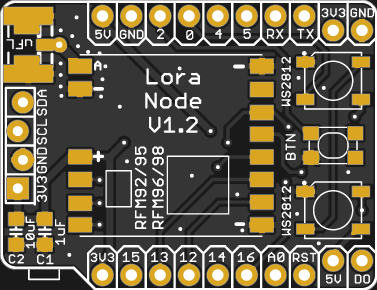
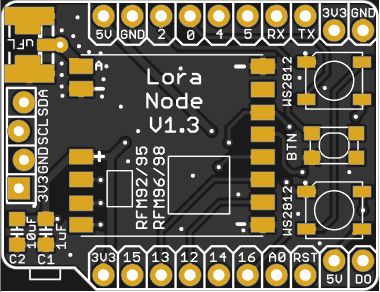
Bump to v1.3

diff --git a/README.md b/README.md
@@ -12,7 +12,7 @@ This shield is used to hold HopeRF [Lora module][4] Software with WeMos ESP8266 
 - Added Solder PAD jumper to be able to connect GPIO16 to Reset to enable deep sleep (V1.2+)
 
 
-You can find more information on WeMos on their [site][1], it's really well documented.
+You can find more information on WeMos D1 mini boards ([mini][1], [mini pro][7], [mini lite[8]), it's really well documented.
 I now use WeMos boards instead of NodeMCU's one because they're just smaller, features remains the same, but I also suspect WeMos regulator far better quality than the one used on NodeMCU that are just fake of originals AMS117 3V3.
 
 Boards arrived, I tested them, works fine with forked version of [single Channel LoRaWAN Gateway][5] but you can use any program that is compatible with RFM95 Lora module according it to real pinout.
@@ -23,6 +23,8 @@ Detailed Description
 Look at the schematics for more informations.
 
 SPI connexion is classic (MOSI/MISO/CLK), 
+
+**New v1.3** Solder pad on bottom layer to be able to switch 3V3 and GND Pin. It's configured as old version mapping by default (silkscreen is correct). 
 
 Since V1.2, chip Select is still connected with GPIO16 by default but solder pad on bottom of the board allow you to connect GPIO16 to RESET for Deep Sleep. In this case: 
 
@@ -85,9 +87,11 @@ Misc
 ====
 See news and other projects on my [blog][2] 
  
-[1]: http://www.wemos.cc/wiki/doku.php?id=en:d1_mini
+[1]: https://wiki.wemos.cc/products:d1:d1_mini
 [2]: https://hallard.me
 [3]: https://PCBs.io/share/4Q1Z4 
 [4]: http://www.hoperf.com/rf_transceiver/lora/
 [5]: https://github.com/hallard/ESP-1ch-Gateway/
 [6]: https://github.com/matthijskooijman/arduino-lmic/pull/34
+[7]: https://wiki.wemos.cc/products:d1:d1_mini_pro
+[8]: https://wiki.wemos.cc/products:d1:d1_mini_lite
